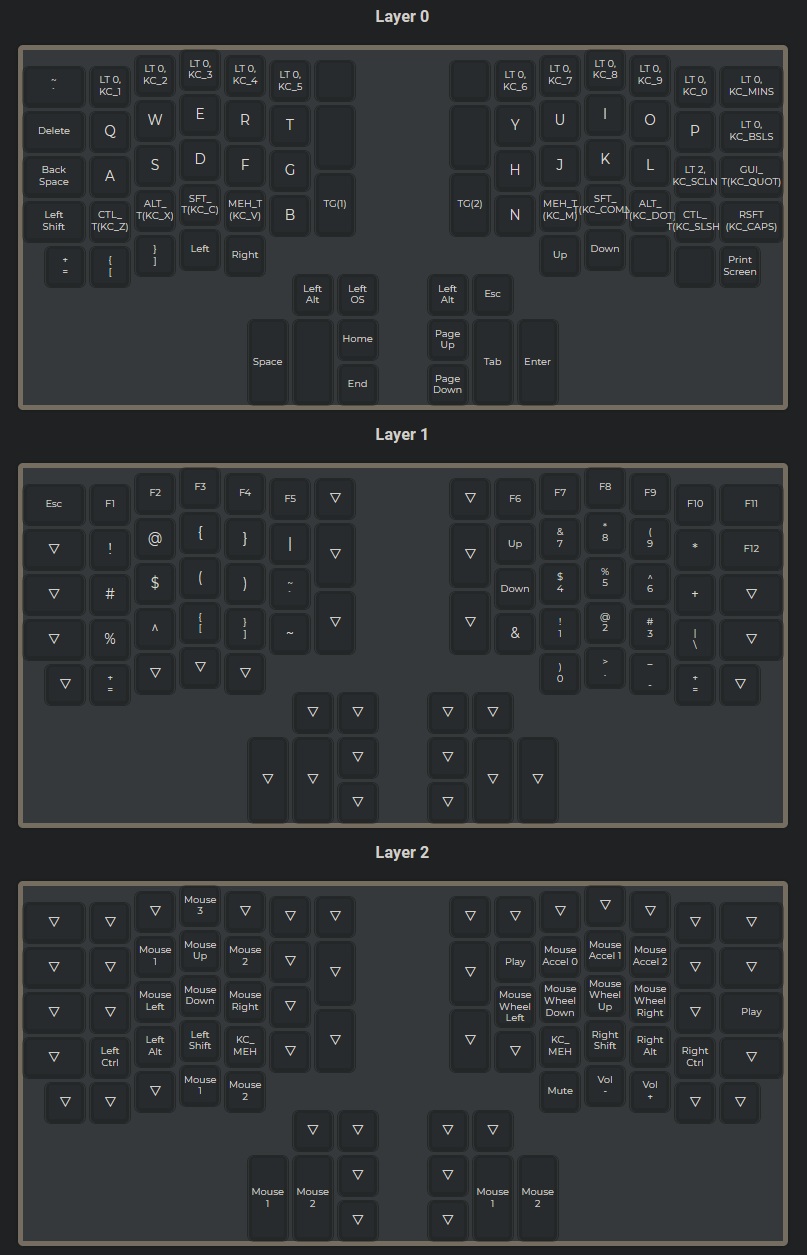
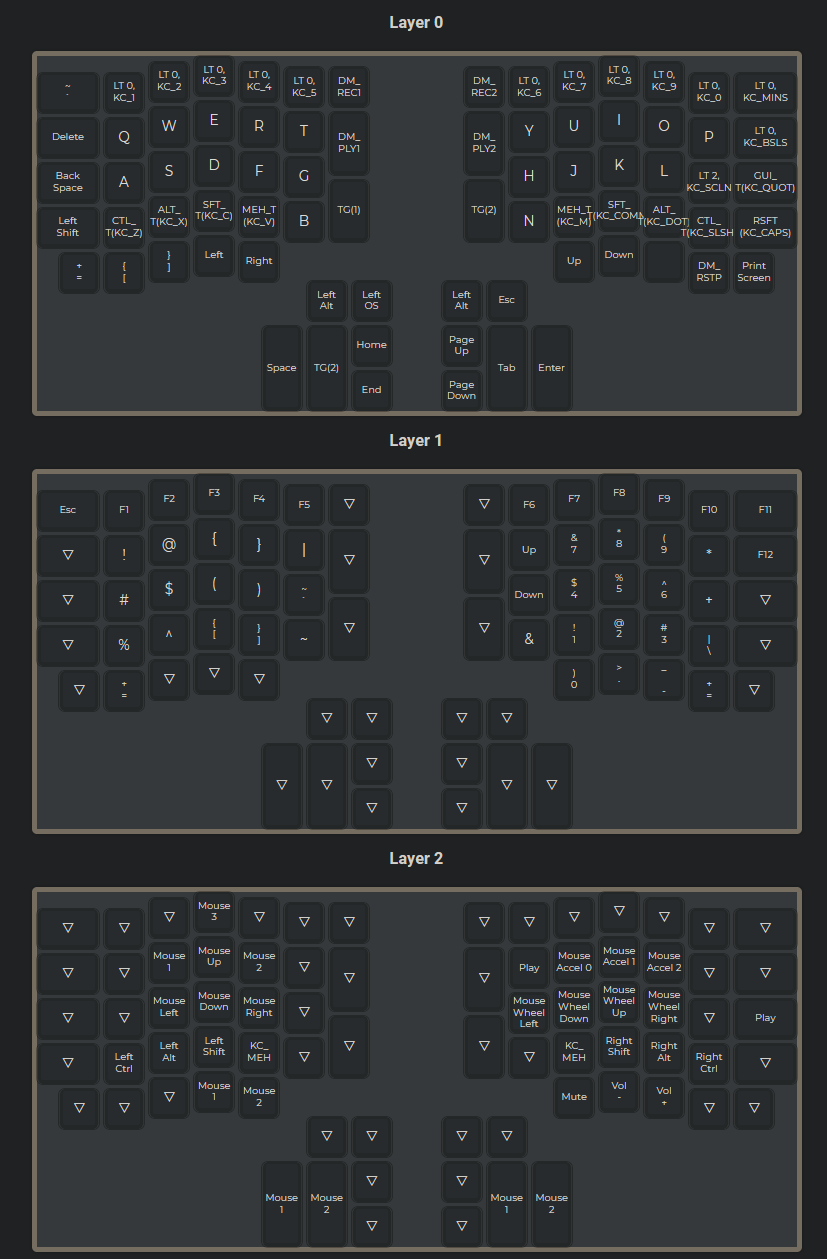
Add dynamic macros to L0

diff --git a/keyboards/ergodox_ez/keymaps/sdygert/keymap.c b/keyboards/ergodox_ez/keymaps/sdygert/keymap.c
@@ -33,15 +33,15 @@ const uint16_t PROGMEM keymaps[][MATRIX_ROWS][MATRIX_COLS] = {
 /* Keymap 0: Basic layer
  *
  * ,--------------------------------------------------.           ,--------------------------------------------------.
- * |   `    | 1/F1 | 2/F2 | 3/F3 | 4/F4 | 5/F5 |      |           |      | 6/F6 | 7/F7 | 8/F8 | 9/F9 | 0/F10| -/F11  |
+ * |   `    | 1/F1 | 2/F2 | 3/F3 | 4/F4 | 5/F5 |DMREC1|           |DMREC2| 6/F6 | 7/F7 | 8/F8 | 9/F9 | 0/F10| -/F11  |
  * |--------+------+------+------+------+-------------|           |------+------+------+------+------+------+--------|
- * | Del    |   Q  |   W  |   E  |   R  |   T  |      |           |      |   Y  |   U  |   I  |   O  |   P  | \/F12  |
+ * | Del    |   Q  |   W  |   E  |   R  |   T  |DMPLY1|           |DMPLY2|   Y  |   U  |   I  |   O  |   P  | \/F12  |
  * |--------+------+------+------+------+------|      |           |      |------+------+------+------+------+--------|
  * | BkSp   |   A  |   S  |   D  |   F  |   G  |------|           |------|   H  |   J  |   K  |   L  |; / L2|' / Cmd |
  * |--------+------+------+------+------+------|  L1  |           |  L2  |------+------+------+------+------+--------|
  * | LShft  |Z/Ctrl|X/Alt |C/Shft|V/Meh |   B  |      |           |      |   N  |M/Meh |,/Shft|./Alt |//Ctrl| RShft  |
  * `--------+------+------+------+------+-------------'           `-------------+------+------+------+------+--------'
- *   |   =  |  [   |  ]   | Left | Right|                                       |  Up  | Down |      |      | PntScr |
+ *   |   =  |  [   |  ]   | Left | Right|                                       |  Up  | Down |      |DMRSTP| PntScr |
  *   `----------------------------------'                                       `----------------------------------'
  *                                        ,-------------.       ,---------------.
  *                                        | Alt  | LGui |       | Alt  |  Esc   |
@@ -53,11 +53,11 @@ const uint16_t PROGMEM keymaps[][MATRIX_ROWS][MATRIX_COLS] = {
  */
 [BASE] = LAYOUT_ergodox_pretty(
   // left hand
-  KC_GRV,   LT(0,KC_1),     LT(0,KC_2),     LT(0,KC_3),     LT(0,KC_4),     LT(0,KC_5),     KC_NO,                KC_NO,    LT(0,KC_6),     LT(0,KC_7),     LT(0,KC_8),     LT(0,KC_9),        LT(0,KC_0),        LT(0,KC_MINS),
-  KC_DEL,   KC_Q,           KC_W,           KC_E,           KC_R,           KC_T,           KC_NO,                KC_NO,    KC_Y,           KC_U,           KC_I,           KC_O,              KC_P,              LT(0,KC_BSLS),
+  KC_GRV,   LT(0,KC_1),     LT(0,KC_2),     LT(0,KC_3),     LT(0,KC_4),     LT(0,KC_5),     DM_REC1,              DM_REC2,  LT(0,KC_6),     LT(0,KC_7),     LT(0,KC_8),     LT(0,KC_9),        LT(0,KC_0),        LT(0,KC_MINS),
+  KC_DEL,   KC_Q,           KC_W,           KC_E,           KC_R,           KC_T,           DM_PLY1,              DM_PLY2,  KC_Y,           KC_U,           KC_I,           KC_O,              KC_P,              LT(0,KC_BSLS),
   KC_BSPC,  KC_A,           KC_S,           KC_D,           KC_F,           KC_G,                                           KC_H,           KC_J,           KC_K,           KC_L,              LT(2,KC_SCLN),     GUI_T(KC_QUOT),
   KC_LSFT,  CTL_T(KC_Z),    ALT_T(KC_X),    SFT_T(KC_C),    MEH_T(KC_V),    KC_B,           TG(1),                TG(2),    KC_N,           MEH_T(KC_M),    SFT_T(KC_COMM), ALT_T(KC_DOT),     CTL_T(KC_SLSH),    TD(TD_RSFT_CAPS_L),
-  KC_EQL,   KC_LBRC,        KC_RBRC,        KC_LEFT,        KC_RGHT,                                                        KC_UP,          KC_DOWN,        KC_NO,          KC_NO,             KC_PSCR,
+  KC_EQL,   KC_LBRC,        KC_RBRC,        KC_LEFT,        KC_RGHT,                                                        KC_UP,          KC_DOWN,        KC_NO,          DM_RSTP,           KC_PSCR,
                                                                             KC_LALT,        KC_LGUI,              KC_LALT,  KC_ESC,
                                                                                             KC_HOME,              KC_PGUP,
                                                             KC_SPC,         TG(2),          KC_END,               KC_PGDN,  KC_TAB,         KC_ENT
